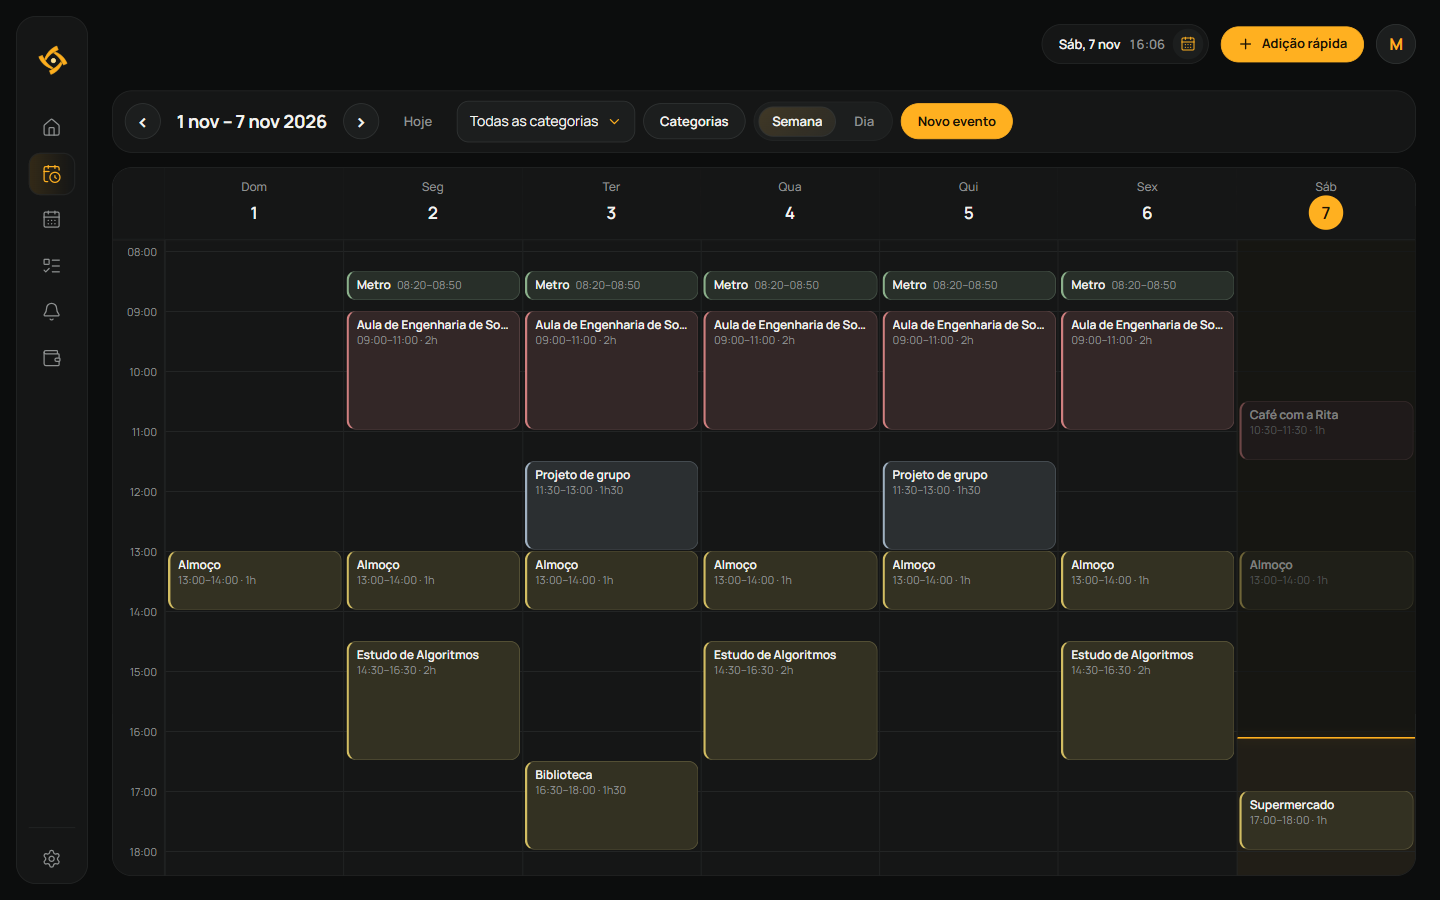
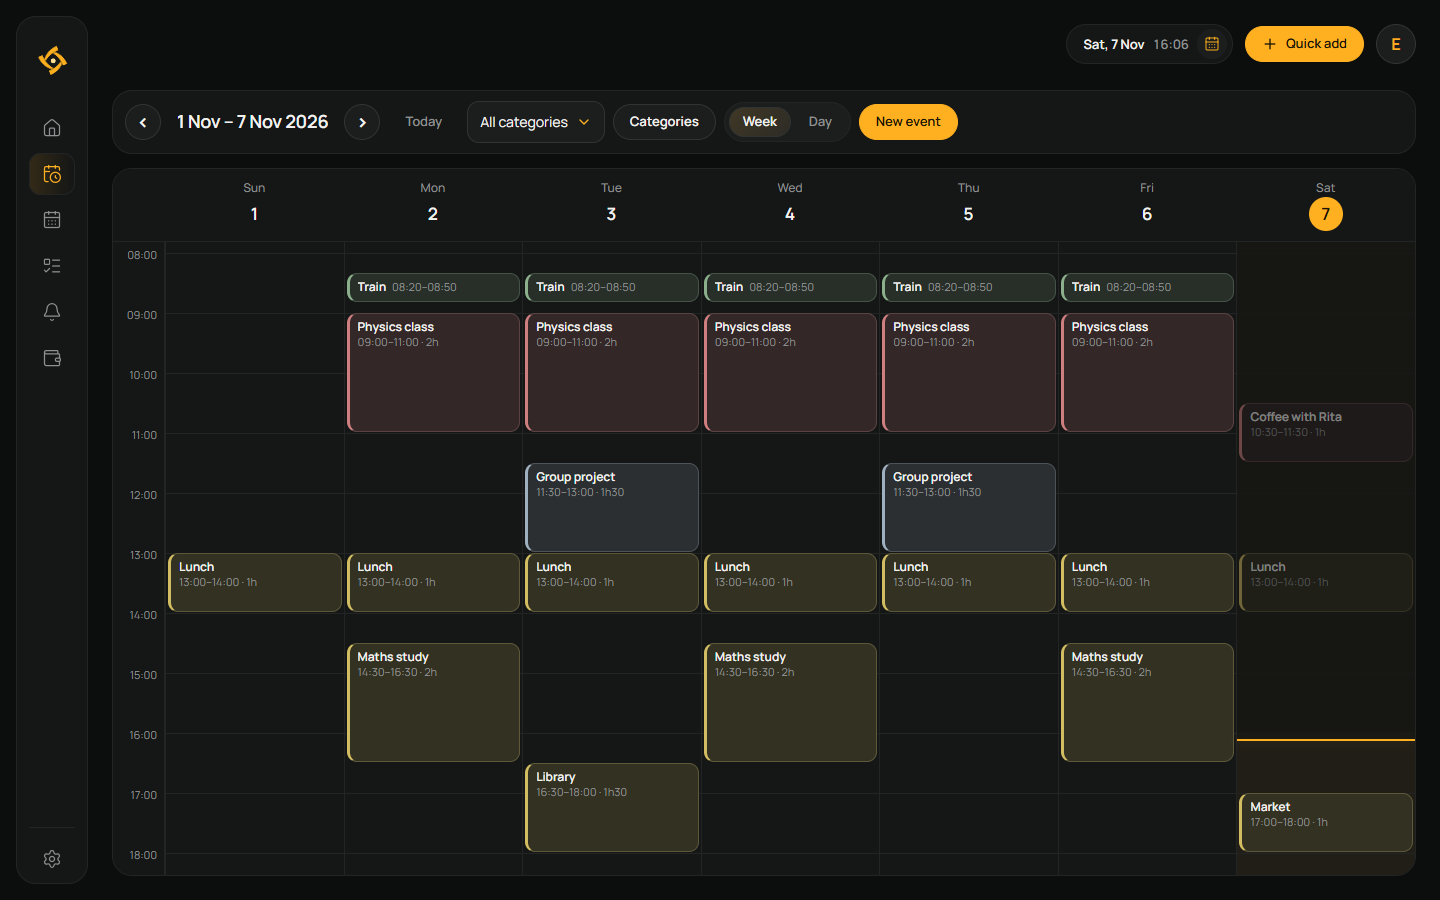
docs: replace the README screenshots with the English app

diff --git a/README.md b/README.md
@@ -25,8 +25,8 @@
 
 <p align="center">
   <picture>
-    <source media="(prefers-color-scheme: light)" srcset="docs/images/inicio-light.png">
-    <img src="docs/images/inicio-dark.png" alt="Syncro's Home screen with today's agenda, pending tasks, the month's balance and upcoming special days" width="900">
+    <source media="(prefers-color-scheme: light)" srcset="docs/images/home-light.png">
+    <img src="docs/images/home-dark.png" alt="Syncro's Home screen with today's agenda, pending tasks, the month's balance and upcoming special days" width="900">
   </picture>
 </p>
 
@@ -44,31 +44,31 @@
 
 Daily and weekly planning, with coloured categories, recurring events and events that run past midnight. Each weekday's sleep schedule appears on the grid and is edited right in the Agenda.
 
-<p align="center"><img src="docs/images/agenda-dark.png" alt="Weekly Agenda with classes, lunch, study and gym" width="900"></p>
+<p align="center"><img src="docs/images/agenda-dark.png" alt="Weekly Agenda with classes, lunch, study and the gym" width="900"></p>
 
 ### Tasks
 
 Priorities, estimated effort, due date and time, subtasks, and workspaces with their own notes. Each workspace can have its own sort order.
 
-<p align="center"><img src="docs/images/tarefas-dark.png" alt="Task list with priorities, effort and due dates" width="900"></p>
+<p align="center"><img src="docs/images/tasks-dark.png" alt="Task list with priorities, effort and due dates" width="900"></p>
 
 ### Finances
 
 Income and expenses, recurring entries, the month's and overall balance, the last six months at a glance and spending by category.
 
-<p align="center"><img src="docs/images/financas-dark.png" alt="Finances with the month's balance, the last six months and spending by category" width="900"></p>
+<p align="center"><img src="docs/images/finances-dark.png" alt="Finances with the month's balance, the last six months and spending by category" width="900"></p>
 
 <table>
   <tr>
     <td width="50%" valign="top">
       <h3>Calendar</h3>
       <p>Birthdays, exams, appointments and trips, with a list of what is coming up in the next 31 days.</p>
-      <img src="docs/images/calendario-dark.png" alt="Monthly calendar with special days">
+      <img src="docs/images/calendar-dark.png" alt="Monthly calendar with special days">
     </td>
     <td width="50%" valign="top">
       <h3>Reminders</h3>
       <p>One-off reminders with an early warning, or reminders repeated every day or every week.</p>
-      <img src="docs/images/lembretes-dark.png" alt="List of pending reminders">
+      <img src="docs/images/reminders-dark.png" alt="List of pending reminders">
     </td>
   </tr>
 </table>
@@ -76,11 +76,11 @@ Income and expenses, recurring entries, the month's and overall balance, the las
 ### Phone
 
 <p align="center">
-  <img src="docs/images/telemovel-inicio-dark.png" alt="Home on a phone" width="240">
+  <img src="docs/images/phone-home-dark.png" alt="Home on a phone" width="240">
   &nbsp;
-  <img src="docs/images/telemovel-agenda-dark.png" alt="Weekly Agenda on a phone" width="240">
+  <img src="docs/images/phone-agenda-dark.png" alt="Weekly Agenda on a phone" width="240">
   &nbsp;
-  <img src="docs/images/telemovel-financas-dark.png" alt="Finances on a phone" width="240">
+  <img src="docs/images/phone-finances-dark.png" alt="Finances on a phone" width="240">
 </p>
 
 On small screens, navigation moves to a bar at the bottom, and Agenda/Calendar and Tasks/Reminders share one tab each.
